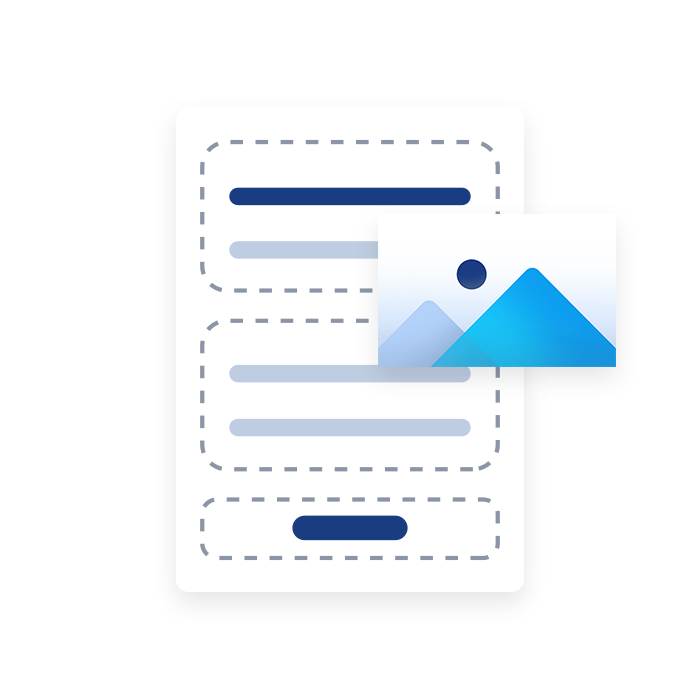
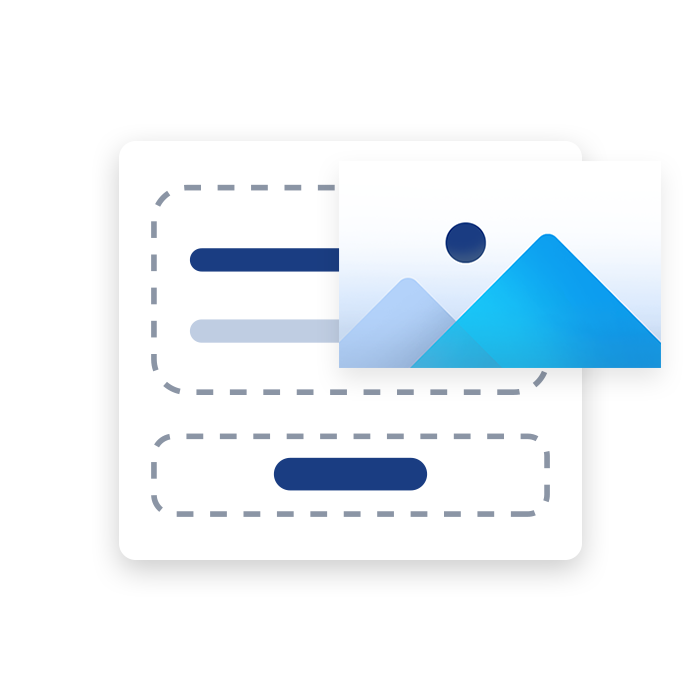
Update: Se actualizan imágenes de flujos en constructor-home-component.

diff --git a/src/main/webapp/app/constructor-home/constructor-home.component.scss b/src/main/webapp/app/constructor-home/constructor-home.component.scss
@@ -15,9 +15,8 @@
 // Home element
 .home-element {
   position: relative;
-  width: 250px;
-  height: 315px;
-  // height: 280px;
+  width: 280px;
+  height: 330px;
   background-color: $light-color-1;
   border-radius: $border-radius-8;
   cursor: pointer;
@@ -33,28 +32,6 @@
     border: 1px solid #18bafb;
   }
 
-  .indicator-step {
-    position: absolute;
-    width: 30px;
-    height: 30px;
-    border-radius: 8px 0 8px 0px;
-    background: $color-step-2;
-    top: 0;
-    left: 0;
-    display: flex;
-    justify-content: center;
-    align-items: center;
-    .icon-step-w {
-      position: relative;
-      width: 22px;
-      height: 22px;
-      background-image: url('../../content/images/step2.svg');
-      background-position: center;
-      background-size: 100%;
-      background-repeat: no-repeat;
-    }
-  }
-
   .he-text {
     position: relative;
     width: 100%;
@@ -65,7 +42,7 @@
     margin-top: 20px;
     h4 {
       position: relative;
-      width: 87%;
+      width: 80%;
       height: auto;
       font-size: 17px;
       font-weight: 600;
@@ -74,62 +51,105 @@
     }
     p {
       position: relative;
-      width: 87%;
+      width: 80%;
       height: auto;
       text-align: left;
       line-height: 23px;
+      min-height: 50px;
     }
   }
 
   .he-img {
     position: relative;
-    width: 110px;
-    height: 110px;
+    width: 120px;
+    height: 120px;
     margin-top: 25px;
     border-radius: 50%;
     display: flex;
     justify-content: center;
     align-items: center;
-    .home-image-step {
+    .he-letter {
+      position: absolute;
+      width: 28px;
+      height: 28px;
+      border-radius: 50%;
+      z-index: 2;
+      top: 50%;
+      margin-top: -14px;
+      left: 10px;
+      font-size: 17px;
+      font-weight: 700;
+      color: white;
+      display: flex;
+      justify-content: center;
+      align-items: center;
+    }
+    .he-circle {
       position: relative;
-      width: 90px;
-      height: 90px;
-      background-position: center;
-      background-repeat: no-repeat;
-      background-size: 100%;
-    }
-  }
-  .heimg1 {
-    background: $color-step-1;
-    .home-image-step {
-      background-image: url('../../content/images/bg_step1.png');
-    }
-  }
-  .heimg2 {
-    background: $color-step-2;
-    .home-image-step {
-      background-image: url('../../content/images/bg_step2.png');
-    }
-  }
-  .heimg3 {
-    background: $color-step-3;
-    .home-image-step {
-      background-image: url('../../content/images/bg_step3.png');
-    }
-  }
-  .heimg4 {
-    background: $color-step-4;
-    .home-image-step {
-      background-image: url('../../content/images/bg_step4.png');
+      width: 108px;
+      height: 108px;
+      background-color: #eaedf4;
+      display: flex;
+      justify-content: center;
+      align-items: center;
+      border-radius: 50%;
+
+      .home-image-step {
+        position: relative;
+        width: 100px;
+        height: 100px;
+        background-position: center;
+        background-repeat: no-repeat;
+        background-size: 100%;
+      }
     }
   }
   button {
     margin-top: 15px;
   }
 }
+.heimg1 {
+  background: $color-step-1;
+  .he-letter {
+    background: $color-step-1;
+  }
+  .he-circle {
+    .home-image-step {
+      background-image: url('../../content/images/bg_step1.png');
+    }
+  }
+}
+.heimg2 {
+  background: $color-step-2;
+  .he-letter {
+    background: $color-step-2;
+  }
+  .he-circle {
+    .home-image-step {
+      background-image: url('../../content/images/bg_step2.png');
+    }
+  }
+}
+.heimg3 {
+  background: $color-step-3;
+  .he-letter {
+    background: $color-step-3;
+  }
+  .he-circle {
+    .home-image-step {
+      background-image: url('../../content/images/bg_step3.png');
+    }
+  }
+}
+.heimg4 {
+  background: $color-step-4;
+  .home-image-step {
+    background-image: url('../../content/images/bg_step4.png');
+  }
+}
 .divider-he {
   position: relative;
-  width: 88%;
+  width: 90%;
   height: 1px;
   background-color: $border-light;
   margin-top: 15px;
@@ -146,17 +166,6 @@
   margin-right: 5px;
   display: none;
 }
-.he-icon-1 {
-  background-image: url('../../content/images/uma_icon.svg');
-}
-.he-icon-2 {
-  background-image: url('../../content/images/module_icon.svg');
-}
-.he-icon-3 {
-  background-image: url('../../content/images/module_icon.svg');
-}
-.e-disabled {
-  cursor: default;
-  pointer-events: none;
-  opacity: 0.5;
+
+home-element {
 }

diff --git a/src/main/webapp/app/constructor-home/constructor-home.component.html b/src/main/webapp/app/constructor-home/constructor-home.component.html
@@ -27,9 +27,13 @@
 
     <div class="window-br-body">
       <div class="row-new-home">
+        <!-- Circle 1 -->
         <div class="home-element" (click)="redirectUMAs();">
           <div class="he-img heimg1">
-            <div class="home-image-step"></div>
+            <div class="he-letter">U</div>
+            <div class="he-circle">
+              <div class="home-image-step"></div>
+            </div>
           </div>
           <div class="he-text">
             <h4> <div class="he-i he-icon-1"></div>
@@ -40,11 +44,13 @@
           </div>
           <button (click)="redirectUMAs();" class="main-btn" jhiTranslate="home.menu.uma.select">Seleccionar</button>
         </div>
-
+        <!-- Circle 2 -->
         <div class="home-element" (click)="redirectGroupUMA();">
-          <!-- <div class="indicator-step"><div class="icon-step-w"></div></div> -->
           <div class="he-img heimg2">
-            <div class="home-image-step"></div>
+            <div class="he-letter">A</div>
+            <div class="he-circle">
+              <div class="home-image-step"></div>
+            </div>
           </div>
           <div class="he-text">
             <h4> <div class="he-i he-icon-1"></div>
@@ -55,9 +61,13 @@
           </div>
           <button (click)="redirectGroupUMA();" class="main-btn" jhiTranslate="home.menu.group.select">Seleccionar</button>
         </div>
+        <!-- Circle 3 -->
         <div class="home-element" (click)="redirectLearningPath();">
           <div class="he-img heimg3">
-            <div class="home-image-step"></div>
+            <div class="he-letter">P</div>
+            <div class="he-circle">
+              <div class="home-image-step"></div>
+            </div>
           </div>
           <div class="he-text">
             <h4> <div class="he-i he-icon-1"></div>
